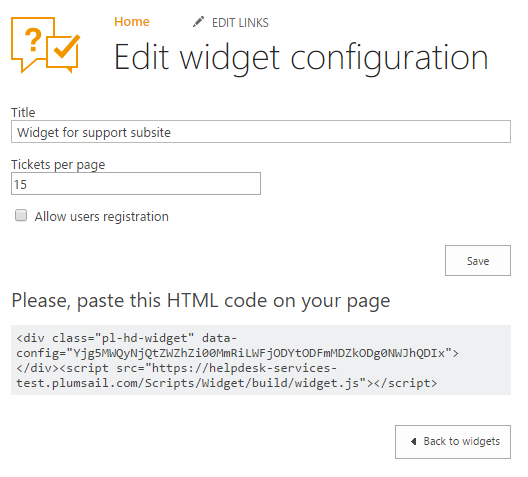
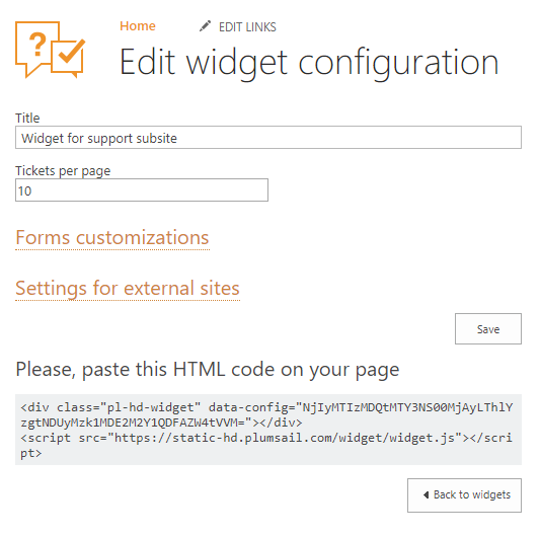
widget forms configuration

diff --git a/Online/Configuration Guide/Widget.rst b/Online/Configuration Guide/Widget.rst
@@ -35,7 +35,7 @@ Here you can create a new widget configuration for your page by choosing 'New it
 |NewWidget|
 
 Provide a title for a widget configuration and choose how many tickets will be displayed on the page.
-If you are creating a widget for external site, you can choose allow or not user's registration. Registrated users have ability to review their tickets.
+If you are creating a widget for external site, you can choose widget language and whether to allow user registration. Registered users have ability to review their tickets.
 
 |WidgetMenu|
 
@@ -57,6 +57,34 @@ Adding widget to external site
 
 Adding a widget to an external site is quite similar to adding it to SharePoint site. Just copy an auto-generated HTML code, open editing form of HTML page and add copied code where you'd like to place a widget.
 
+Customizing widget forms
+~~~~~~~~~~~~~~~~~~~~~~~~
+You can customize widget forms using `Plumsail Forms`_\. It is another Plumsail product with a separate pricing.
+Only new ticket form and new comment form are available for modifications.
+
+With `Plumsail Forms` you can modify form markup and add custom fields to a form, so requester will be able to fill those fields on ticket creation.
+
+.. note::
+   Only text, datetime and choice fields are supported in current version, please drop a line on support@plumsail.com if you need to add more complex field types.
+
+To edit widget form you will need to:
+
+- Download default form: `ticket form`_\, `comment form`_\
+- Install `Plumsail Forms`_\  and import default form from downloaded file
+- Modify custom form and save it. If you want to add custom field, make sure that control internal name matches internal name of corresponding field in SharePoint list.
+
+|Custom widget form|
+
+- Copy your form id from General Settings window and paste it co corresponding field on widget cofiguration form
+
+|Custom widget form settings| |Set widget form id|
+
+- Save widget configuration and test your form
+
+|Custom widget form applied|
+
+.. note::
+   Widget form ids are cached for 30 minutes for optimisation purposes. You will need to clear browser cache to apply your changes immediatly.
 
 .. |WidgetView| image:: ../_static/img/widgetview.png
    :alt: HelpDesk Widget
@@ -74,6 +102,17 @@ Adding a widget to an external site is quite similar to adding it to SharePoint 
    :alt: Adding a widget to your site
 .. |Finish| image:: ../_static/img/finish.png
    :alt: Inserting a widget
+.. |Custom widget form| image:: ../_static/img/custom-widget-form.png
+   :alt: Custom widget form
+.. |Custom widget form settings| image:: ../_static/img/custom-widget-form-settings.png
+   :alt: Custom widget form settings
+.. |Set widget form id| image:: ../_static/img/set-widget-form-id.png
+   :alt: Set widget form id
+.. |Custom widget form applied| image:: ../_static/img/custom-widget-form-saved.png
+   :alt: Custom widget form applied
+.. _Plumsail Forms: https://plumsail.com/forms
+.. _ticket form: ../_static/download/Ticket.xfds
+.. _comment form: ../_static/download/Comment.xfds
 
 
 .. _Install:
